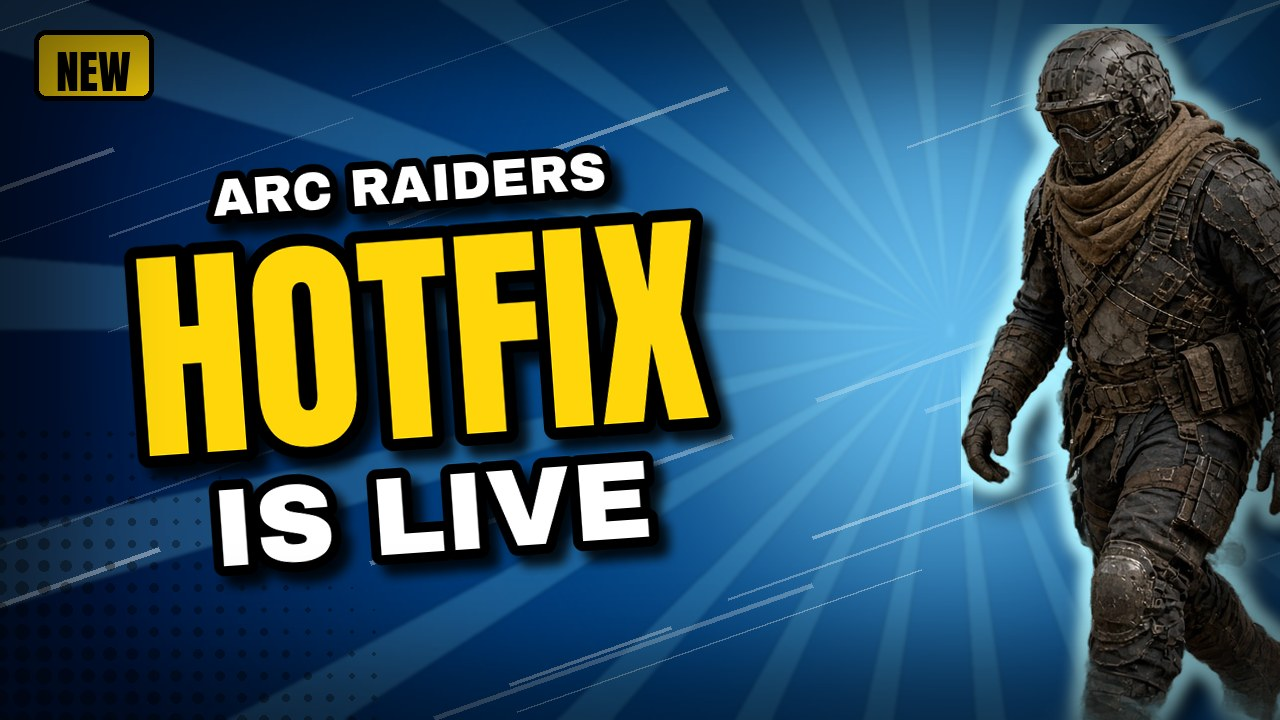
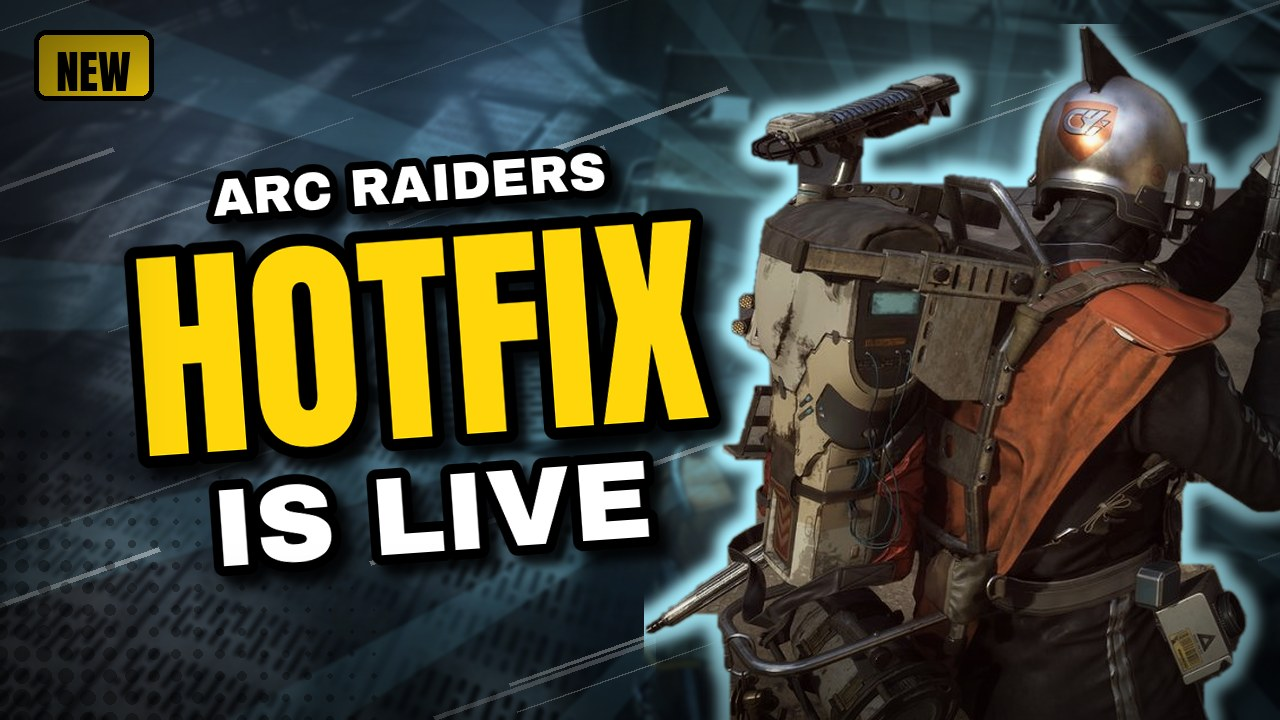
ARC Raiders: Rick's gameplay screenshots (HUD-free) + raider cutouts; v2 full-scene backgrounds; rebuild ARC thumbs; runbook

diff --git a/scripts/thumbs_v2.py b/scripts/thumbs_v2.py
@@ -14,6 +14,8 @@ thumb:
   character: prop-boombox.png     # file in media/characters/ (transparent PNG)
   side: right                     # character side: left | right
   badge: "NEW"                    # optional corner badge
+  bg: media/screenshots/arc-raiders/clean/arc-03.jpg   # optional real scene behind everything
+  bg_mode: full                   # full = colour-graded real scene; faint (default) = ghosted mono scene
 """
 import os, math, random
 from PIL import Image, ImageDraw, ImageFont, ImageFilter, ImageChops, ImageEnhance
@@ -40,11 +42,26 @@ def _radial(size, center, inner, outer, radius):
     g = small.resize((w, h), Image.BILINEAR)
     return Image.composite(Image.new('RGB', size, inner), Image.new('RGB', size, outer), g)
 
-def background(theme, focus, bg_image=None):
+def _cover(path):
+    sc = Image.open(path).convert('RGB'); r = max(W / sc.width, H / sc.height)
+    sc = sc.resize((int(sc.width * r + 0.5), int(sc.height * r + 0.5)), Image.LANCZOS)
+    l, t = (sc.width - W) // 2, (sc.height - H) // 2
+    return sc.crop((l, t, l + W, t + H))
+
+def background(theme, focus, bg_image=None, bg_mode='faint'):
     dark, mid, light, ray = THEMES.get(theme, THEMES['fire'])
-    im = _radial((W, H), focus, mid, dark, 900).convert('RGBA')
-    if bg_image and os.path.exists(bg_image):  # faint, color-graded scene underneath
-        sc = Image.open(bg_image).convert('L').resize((W, H)).filter(ImageFilter.GaussianBlur(3))
+    grad = _radial((W, H), focus, mid, dark, 900)
+    if bg_image and not os.path.isabs(bg_image): bg_image = os.path.join(ROOT, bg_image)
+    full = bool(bg_image and os.path.exists(bg_image) and bg_mode == 'full')
+    if full:  # real scene, colour-graded toward the theme (soft-light-ish blend), slightly blurred so the subject pops
+        sc = _cover(bg_image).filter(ImageFilter.GaussianBlur(2))
+        sc = ImageEnhance.Contrast(ImageEnhance.Brightness(sc).enhance(0.85)).enhance(1.15)
+        im = Image.blend(sc, ImageChops.multiply(sc, grad.point(lambda v: min(255, v * 2))), 0.45).convert('RGBA')
+        im = Image.blend(im, grad.convert("RGBA"), 0.12)
+    else:
+        im = grad.convert('RGBA')
+    if bg_image and os.path.exists(bg_image) and not full:  # faint, color-graded scene underneath
+        sc = _cover(bg_image).convert('L').filter(ImageFilter.GaussianBlur(3))
         sc = Image.merge('RGBA', [sc.point(lambda v: int(v * mid[0] / 255)), sc.point(lambda v: int(v * mid[1] / 255)),
                                   sc.point(lambda v: int(v * mid[2] / 255)), Image.new('L', (W, H), 70)])
         im.alpha_composite(sc)
@@ -53,7 +70,7 @@ def background(theme, focus, bg_image=None):
     for i in range(n):
         a0 = 2 * math.pi * i / n; a1 = a0 + math.pi / n * 0.55
         d.polygon([focus, (focus[0] + R * math.cos(a0), focus[1] + R * math.sin(a0)),
-                   (focus[0] + R * math.cos(a1), focus[1] + R * math.sin(a1))], fill=ray + (55,))
+                   (focus[0] + R * math.cos(a1), focus[1] + R * math.sin(a1))], fill=ray + (35 if full else 55,))
     im.alpha_composite(rays.filter(ImageFilter.GaussianBlur(2)))
     # central glow
     glow = Image.new('RGBA', (W, H)); ImageDraw.Draw(glow).ellipse((focus[0] - 330, focus[1] - 330, focus[0] + 330, focus[1] + 330), fill=light + (150,))
@@ -112,9 +129,9 @@ def _fit(path, txt, size, maxw, stroke):
         size -= 4
     return ImageFont.truetype(path, size)
 
-def render(out, lines, key=0, label=None, theme='fire', character=None, side='right', badge=None, bg_image=None):
+def render(out, lines, key=0, label=None, theme='fire', character=None, side='right', badge=None, bg_image=None, bg_mode='faint'):
     focus = (W - 330, 330) if side == 'right' else (330, 330)
-    im = background(theme, focus, bg_image)
+    im = background(theme, focus, bg_image, bg_mode)
     light = THEMES.get(theme, THEMES['fire'])[2]
     if character:
         p = character if os.path.isabs(character) else os.path.join(ROOT, 'media/characters', character)

diff --git a/scripts/clean_shots.py b/scripts/clean_shots.py
@@ -1,0 +1,36 @@
+#!/usr/bin/env python3
+"""Clean Rick's ARC Raiders gameplay screenshots (2560x1440) for thumbnails:
+inpaint small HUD bits, crop 16:9 away from HUD edges/corners, save 1600x900 JPG q85.
+Coordinates below are in 1024x576 preview space (x2.5 = full res).
+Usage: python3 scripts/clean_shots.py   (raw PNGs are gitignored; clean JPGs are committed)"""
+import os, cv2, numpy as np
+ROOT = os.path.dirname(os.path.dirname(os.path.abspath(__file__)))
+D = os.path.join(ROOT, 'media/screenshots/arc-raiders')
+S = 2.5
+# HUD rects present on every shot (inpainted anyway as a safety net)
+COMMON = [(375, 0, 665, 72), (10, 500, 175, 555), (930, 410, 1015, 465), (812, 465, 1015, 555),
+          (915, 555, 1024, 576), (978, 160, 1010, 192), (505, 282, 520, 296)]
+EXTRA = {2: [(608, 332, 628, 352)], 3: [(450, 508, 575, 530)],
+         5: [(568, 300, 648, 324), (703, 243, 723, 263)]}
+TOP, BOT = 78, 500                        # crop rows (preview space) -> 422 tall
+X0 = {1: 0, 2: 0, 3: 0, 4: 0, 5: 172, 6: 172}  # crop left edge per shot (centres the raider)
+
+def run():
+    os.makedirs(os.path.join(D, 'clean'), exist_ok=True)
+    for i in range(1, 7):
+        src = os.path.join(D, f'rick-arc-0{i}.png')
+        if not os.path.exists(src): continue
+        im = cv2.imread(src)
+        h, w = im.shape[:2]; s = w / 1024
+        mask = np.zeros((h, w), np.uint8)
+        for x0, y0, x1, y1 in COMMON + EXTRA.get(i, []):
+            cv2.rectangle(mask, (int(x0 * s), int(y0 * s)), (int(x1 * s), int(y1 * s)), 255, -1)
+        im = cv2.inpaint(im, mask, 9, cv2.INPAINT_TELEA)
+        ch = (BOT - TOP); cw = ch * 16 / 9
+        x0 = X0[i]; crop = im[int(TOP * s):int(BOT * s), int(x0 * s):int((x0 + cw) * s)]
+        crop = cv2.resize(crop, (1600, 900), interpolation=cv2.INTER_AREA)
+        out = os.path.join(D, 'clean', f'arc-0{i}.jpg')
+        cv2.imwrite(out, crop, [cv2.IMWRITE_JPEG_QUALITY, 85, cv2.IMWRITE_JPEG_OPTIMIZE, 1, cv2.IMWRITE_JPEG_PROGRESSIVE, 1])
+        print(out, os.path.getsize(out) // 1024, 'KB')
+
+if __name__ == '__main__': run()

diff --git a/scripts/build.py b/scripts/build.py
@@ -74,7 +74,7 @@ for a in articles:
         if t.get('style') == 'v2':
             thumbs_v2.render(out, t.get('lines') or [t.get('line1', ''), t.get('line2', '')], int(t.get('key', 0)),
                              t.get('label', GAMES.get(a['game'], {}).get('short', '')), t.get('theme', 'fire'),
-                             t.get('character'), t.get('side', 'right'), t.get('badge'), t.get('bg'))
+                             t.get('character'), t.get('side', 'right'), t.get('badge'), t.get('bg'), t.get('bg_mode', 'faint'))
         else:
             thumbs.render(out, a['game'], a['slug'], t.get('line1', ' '.join(words[:2])),
                         t.get('line2', ' '.join(words[2:4])), t.get('accent', 'yellow'),

diff --git a/RUNBOOK-news.md b/RUNBOOK-news.md
@@ -55,7 +55,7 @@ thumb: {style: v2, label: "GTA VI", lines: ["RADIO", "REVEALED"], key: 0, theme:
   - `volt` (yellow).
   - `neon` (pink/orange): good for GTA/Vice City.
   - `ice` (blue): good for ARC Frozen Trail and winter.
-- `character`: a transparent PNG in `media/characters/`. `side` is left or right; the text goes on the opposite side.
+- `character`: a transparent PNG in `media/characters/`. For ARC Raiders, use Rick's cutouts (see below). `side` is left or right; the text goes on the opposite side.
   - Available: `mw4-skull-operator.png` (original hooded skull-balaclava operator, best for CoD/Warzone), `mw4-operator.png`, `arc-raider.png`, `gta6-convertible.png` (low resolution, avoid large use), `prop-boombox.png`.
   - New characters must be ORIGINAL look-alikes (e.g. a hooded operator with a generic skull-print balaclava, an extraction raider, a weapon close-up). Never Ghost or any official character, and no logos.
   - Generate on a plain background (GenerateImage, done by the parent agent), then cut out:
@@ -63,7 +63,14 @@ thumb: {style: v2, label: "GTA VI", lines: ["RADIO", "REVEALED"], key: 0, theme:
     python3 -c "from rembg import remove,new_session;from PIL import Image;s=new_session('isnet-general-use');remove(Image.open('in.png'),session=s).save('media/characters/NAME.png')"
     ```
   - Vector props: `scripts/draw_props.py`.
-- Optional `bg: media/screenshots/...jpg` adds a faint, colour-graded scene under the rays.
+- Optional `bg: media/screenshots/...jpg` adds a faint, colour-graded scene under the rays (default `bg_mode: faint`); `bg_mode: full` uses the real scene, colour-graded, as the background.
+- **ARC Raiders thumbnails MUST use Rick's own gameplay images** (never the AI placeholder):
+  - Clean HUD-free scenes (1600x900): `media/screenshots/arc-raiders/clean/arc-01.jpg` … `arc-06.jpg`. Use them as `bg:` with `bg_mode: full`.
+    - 01: forest/rocks; 02: misty path with a downed ARC; 03: swamp boardwalk/tunnel; 04: industrial dome interior; 05: top-down metal floor; 06: rainy open field.
+  - Raider cutouts: `media/characters/arc-raider-rick-01.png`, `-02.png`, `-06.png`. Use them as `character:` (they're cut at the waist and sit on the bottom edge automatically).
+  - **Rotate:** don't reuse the previous ARC post's character or background. Check what's been used with `rg -n "^thumb" content/articles/arc-*.md`, pick a different character/bg pair, and don't put a cutout on its own source screenshot (e.g. avoid rick-02 on arc-02).
+  - Example: `thumb: {style: v2, label: "ARC RAIDERS", lines: ["HOTFIX", "IS LIVE"], key: 0, theme: ice, character: arc-raider-rick-02.png, side: right, bg: media/screenshots/arc-raiders/clean/arc-05.jpg, bg_mode: full, badge: "NEW"}`
+  - New screenshots from Rick: put the raw PNGs at `media/screenshots/arc-raiders/rick-arc-NN.png` (they're gitignored). Add their crop and inpaint rectangles to `scripts/clean_shots.py` and run it. Visually confirm that no HUD remains, especially the player name, the ID string bottom-right, the compass and the prompts. Cut out with rembg (see 3), keeping only the largest component and filling holes.
 - Old-style thumbnails (`line1/line2/accent`) still work.
 - Preview: `python3 scripts/build.py`, then view `media/thumbs/<slug>.jpg`. Check that the text is readable and nothing is cut off.
 

diff --git a/content/articles/arc-raiders-hotfix-2-0-2-free-weekend.md b/content/articles/arc-raiders-hotfix-2-0-2-free-weekend.md
@@ -5,7 +5,7 @@ game: arc-raiders
 category: news
 date: 2026-10-09
 description: "Embark's Hotfix 2.0.2 fixes invisible weapons, server crashes and a Pendola Pass trap one day after Frozen Trail. ARC Raiders is free to play until Oct 12."
-thumb: {style: v2, label: "ARC RAIDERS", lines: ["HOTFIX", "IS LIVE"], key: 0, theme: ice, character: arc-raider.png, side: right, badge: "NEW"}
+thumb: {style: v2, label: "ARC RAIDERS", lines: ["HOTFIX", "IS LIVE"], key: 0, theme: ice, character: arc-raider-rick-02.png, side: right, bg: media/screenshots/arc-raiders/clean/arc-05.jpg, bg_mode: full, badge: "NEW"}
 sources:
   - {name: "ARC Raiders — Frozen Trail is live! Play for free October 8-12", url: "https://arcraiders.com/news/frozen-trail-is-live"}
   - {name: "ConsolePCGaming — ARC Raiders Hotfix 2.0.2 Targets Weapon Bugs and Server Crashes", url: "https://consolepcgaming.com/arc-raiders-hotfix-2-0-2-targets-weapon-bugs-and-server-crashes/"}

diff --git a/content/articles/arc-raiders-reward-pass-explained.md b/content/articles/arc-raiders-reward-pass-explained.md
@@ -5,7 +5,7 @@ game: arc-raiders
 category: guide
 date: 2026-10-07
 description: "How ARC Raiders' new Reward Pass works: 60 levels, what the Free and Premium tracks include, what happens to your Raider Decks, and the 1,150-token Premium cost."
-thumb: {line1: "Reward Pass", line2: "Explained", accent: yellow, badge: "Guide"}
+thumb: {style: v2, label: "ARC RAIDERS", lines: ["REWARD", "PASS EXPLAINED"], key: 0, theme: fire, character: arc-raider-rick-01.png, side: left, bg: media/screenshots/arc-raiders/clean/arc-04.jpg, bg_mode: full, badge: "GUIDE"}
 sources:
   - {name: "ARC Raiders — Reward Passes: our new progression mechanic, explained (Sept 28, 2026)", url: "https://arcraiders.com/news/frozen-trail-reward-pass"}
   - {name: "ARC Raiders — Frozen Trail First Look (Sept 23, 2026)", url: "https://arcraiders.com/news/frozen-trail-content-preview"}

diff --git a/content/articles/arc-raiders-frozen-trail-pendola-pass.md b/content/articles/arc-raiders-frozen-trail-pendola-pass.md
@@ -6,7 +6,7 @@ category: news
 featured: true
 date: 2026-10-07
 description: "ARC Raiders' free Frozen Trail update lands October 8 with the Pendola Pass map, the Frigate, three new ARC enemies, Amplified Weapons, an Outpost and more."
-thumb: {line1: "Frozen", line2: "Trail", accent: green, badge: "Oct 8"}
+thumb: {style: v2, label: "ARC RAIDERS", lines: ["FROZEN", "TRAIL"], key: 0, theme: ice, character: arc-raider-rick-06.png, side: right, bg: media/screenshots/arc-raiders/clean/arc-03.jpg, bg_mode: full, badge: "UPDATE"}
 sources:
   - {name: "ARC Raiders — Frozen Trail First Look (Sept 23, 2026)", url: "https://arcraiders.com/news/frozen-trail-content-preview"}
   - {name: "Embark Studios press release via Games Press (Sept 23, 2026)", url: "https://www.gamespress.com/DISCOVER-WHAT-LIES-AT-THE-EDGE-OF-THE-RUST-BELT-IN-ARC-RAIDERS-FROZEN-"}
